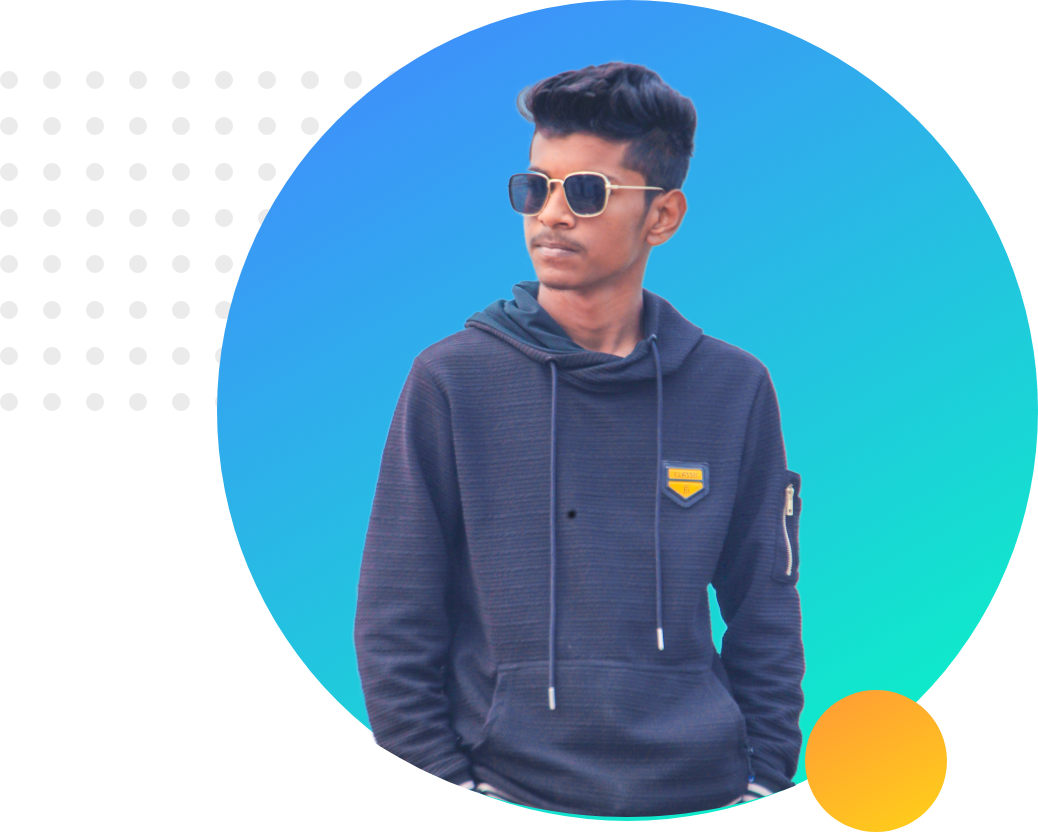
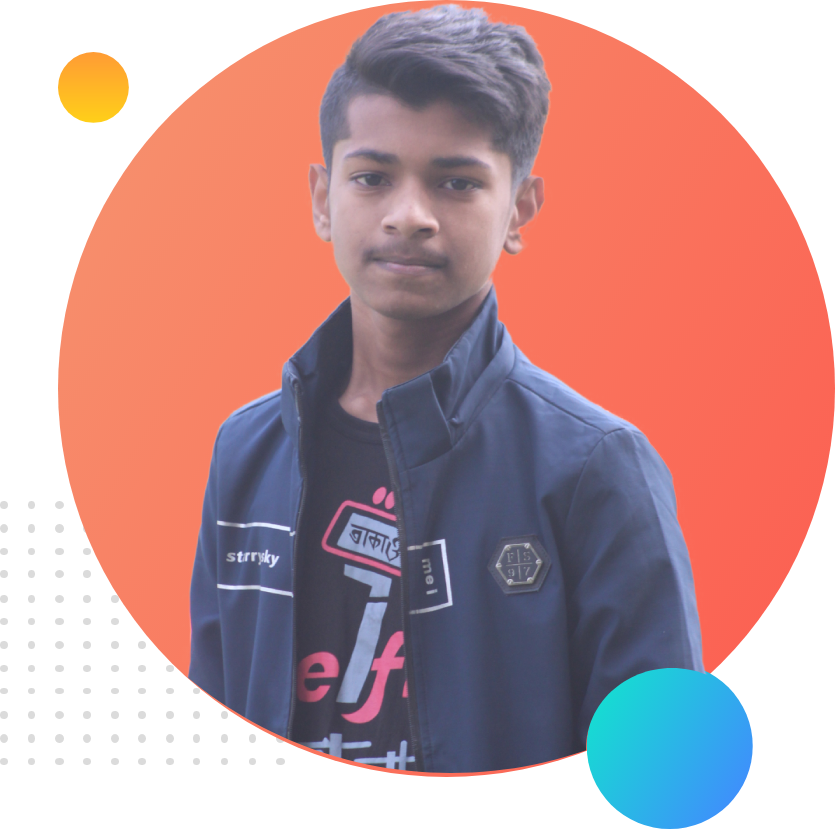
All done

diff --git a/index.html b/index.html
@@ -9,17 +9,44 @@
     <link rel="stylesheet" href="style.css">
 </head>
 <body>
-    <section>
+    <section class="top-banner">
         <div class="half-width">
             <h1>Welcome To</h1>
-            <h1><span class="name-highlight">Waliullah's</span> Website</h1>
+            <h1><span class="orange-highlight">Waliullah's</span> Website</h1>
             <h3>World-class professional web Developer</h3>
             <p>Lorem ipsum dolor sit amet, consectetur adipisicing elit. Illum ex animi blanditiis asperiores maiores recusandae dolor id consectetur quis. Magnam corrupti unde nobis, quia molestias mollitia voluptatibus optio assumenda nesciunt.</p>
+            <a class="link-btn" target="_blank" href="https://www.linkedin.com/in/shihab-shekh-380318219/">HIRE ME</a>
         </div>
         <div class="half-width">
-            <img src="image/dream profile.png" alt="">
+            <img src="image/Web profile.png" alt="">
         </div>
     </section>
-    
+    <section class="dream-area">
+        <div class="half-width">
+            <img src="image/drem profile.png" alt="">
+        </div>
+        <div class="half-width">
+            <h2>Big Dream</h2>
+            <h3>Become World's No.1 Developer</h3>
+            <p>Lorem, ipsum dolor sit amet consectetur adipisicing elit. Facilis explicabo sunt corrupti incidunt, deserunt quos, vitae commodi, praesentium autem laboriosam atque corporis fuga libero delectus.</p>
+            <a class="link-btn" target="_blank" href="https://www.linkedin.com/in/shihab-shekh-380318219/">DOWNLOAD RESUME</a>
+        </div>
+    </section>
+    <section class="experiences-area">
+        <h2>Experiences</h2>
+        <div class="half-width single-experience" id="full-stack">
+            <h2>Full Stack Web Developer</h2>
+            <h3 class="orange-highlight">2020-Present | Pro level web developer </h3>
+            <p>Lorem ipsum dolor sit amet consectetur adipisicing elit. Nemo minus consequatur quis quod vel quia fugiat quibusdam dignissimos harum perspiciatis!</p>
+        </div>
+        <div class="half-width single-experience" id="baby-web">
+            <h2>Baby Web Developer</h2>
+            <h3 class="orange-highlight">2020-2021 | Programming Hero Learner</h3>
+            <P>Lorem ipsum dolor sit amet consectetur adipisicing elit. Id, blanditiis, repellendus dolorem molestiae mollitia vitae nulla laboriosam, sequi animi quae eos ad nemo dignissimos nobis.</P>
+        </div>
+    </section>
+    <footer>
+        <p> © S.M. Waliullah 2021, All rights reserved.</p>
+    </footer>
 </body>
 </html>

diff --git a/style.css b/style.css
@@ -1,11 +1,19 @@
 body {
     font-family: 'Poppins', sans-serif;
+    margin: 0px;
+
 }
 
 h1 {
     font-size: 50px;
 }
-.name-highlight {
+h2{
+    font-size: 40px;
+}
+p{
+    color: dimgray;
+}
+.orange-highlight {
     color: orange;
 }
 .half-width{
@@ -16,4 +24,49 @@ h1 {
 }
 .half-width img {
     width: 100%;
+}
+.top-banner{
+    background-image: url("image/top-banner.png");
+    background-repeat: no-repeat;
+}
+section{
+    height: 500px;
+    padding-bottom: 150px;
+}
+.link-btn{
+    color: white;
+    text-decoration: none;
+    background-image: linear-gradient(45deg, lightSalmon, tomato);
+    padding: 10px 20px;
+    border-radius: 5px;
+}
+.dream-area{
+    background-image: url("image/dream-bg.png");
+    background-repeat: no-repeat;
+    background-position: right;
+}
+.single-experience{
+    box-shadow: 10px 10px 40px gray ;
+    border-radius: 10px;
+    height: 60%;
+    background-color: white;
+}
+.experiences-area{
+    background-image: url("image/exp-bg.png");
+    background-repeat: no-repeat;
+    background-position: left;
+}
+#full-stack{
+    border-left: 7px solid;
+    border-image: linear-gradient( 180deg, rgb(230, 161, 133), rgb(230, 49, 17));
+    border-image-slice: 1;
+}
+#baby-web{
+    border-left: 7px solid;
+    border-image: linear-gradient( 180deg, blue, cyan);
+    border-image-slice: 1;
+}
+footer p{
+    text-align: center;
+    font-size: 12px;
 }
